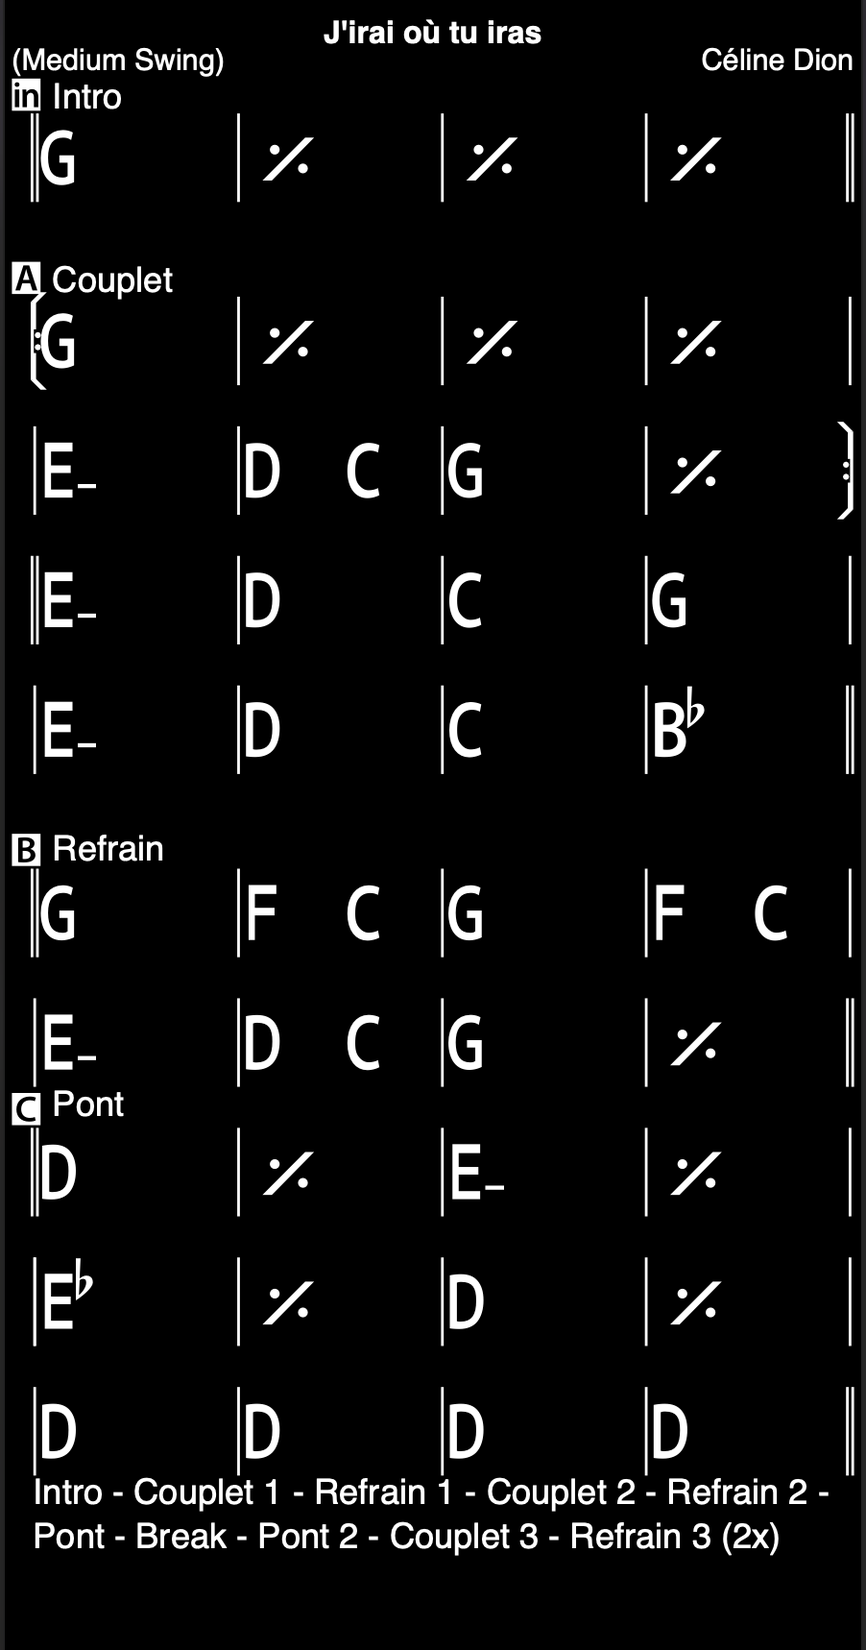
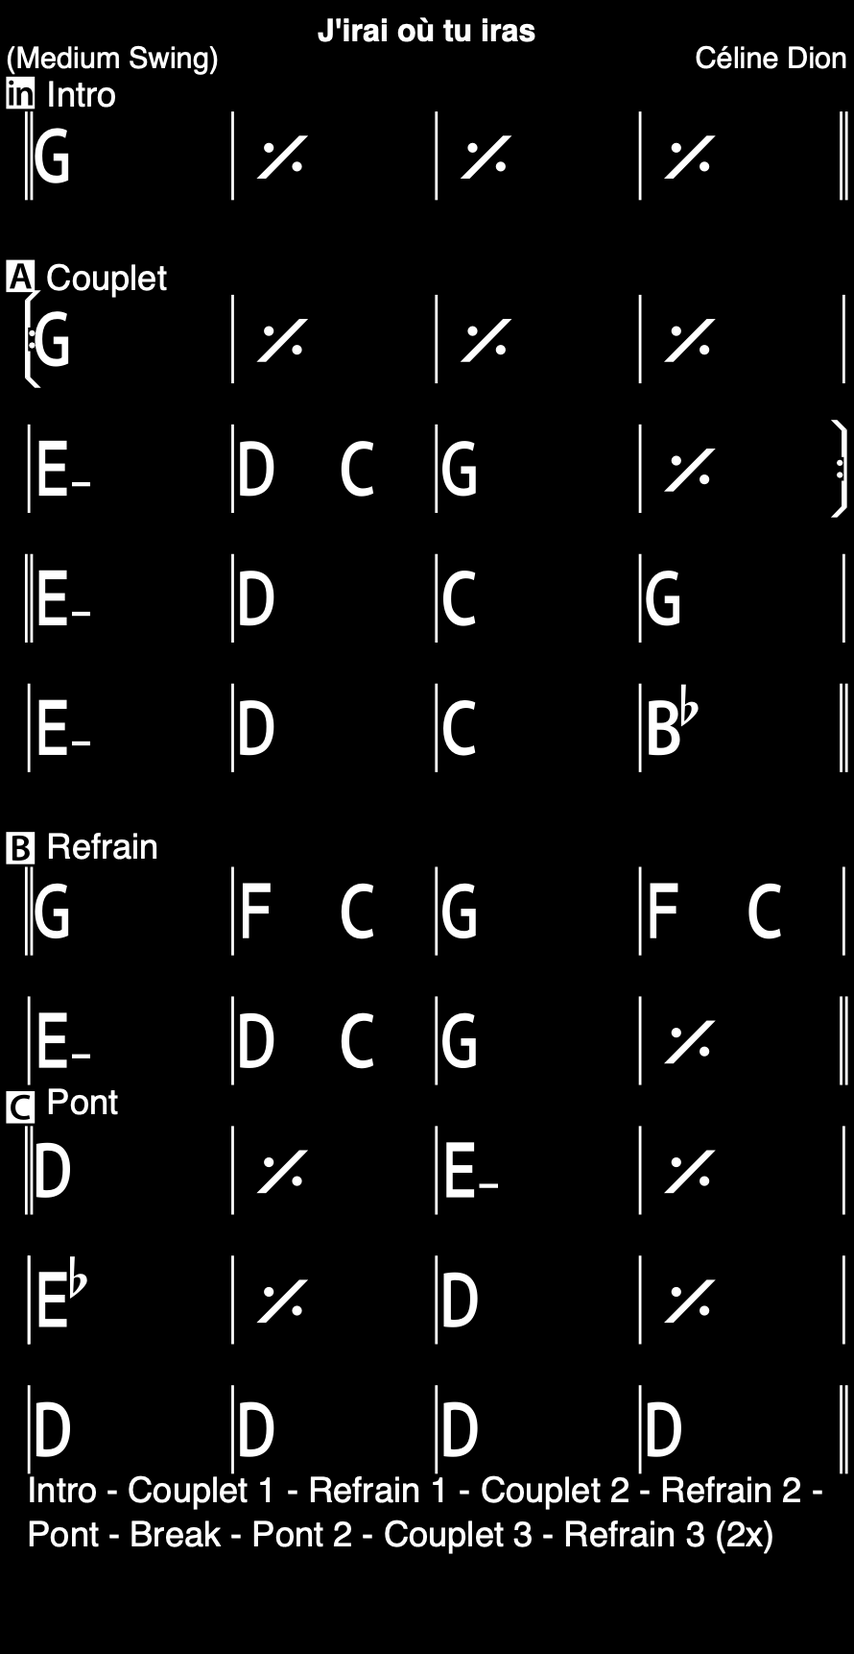
encore

diff --git a/docs/chansons.html b/docs/chansons.html
@@ -36,48 +36,49 @@
      <li>23. <a href="chansons/il_est_libre_max.html"><strong>Il est libre Max</strong></a> - <i>Hervé Cristiani</i> - <a href="https://www.youtube.com/watch?v=98uUxfo_eMw">YouTube</a> - <a href="partitions/il_est_libre_max.png">Partition</a></li>
      <li>24. <a href="chansons/il_jouait_du_piano_debout.html"><strong>Il jouait du piano debout</strong></a> - <i>Michel Berger, France Gall</i> - <a href="https://www.youtube.com/watch?v=7l7eXx_8DHY">YouTube</a> - <a href="partitions/il_jouait_du_piano_debout.png">Partition</a></li>
      <li>25. <a href="chansons/j_ai_demande_a_la_lune.html"><strong>J'ai demandé à la lune</strong></a> - <i>Indochine</i> - <a href="https://www.youtube.com/watch?v=KAOmC5qT02w">YouTube</a> - <a href="partitions/j_ai_demande_a_la_lune.png">Partition</a></li>
-     <li>26. <a href="chansons/jardin_d_hivers.html"><strong>Jardin d'Hiver</strong></a> - <i>Henri Salvador, Benjamin Biolay</i> - <a href="https://www.youtube.com/watch?v=gFkUVik35U8">YouTube</a> - <a href="partitions/jardin_d_hivers.png">Partition</a></li>
-     <li>27. <a href="chansons/je_te_promets.html"><strong>Je te promets</strong></a> - <i>Johnny Hallyday</i> - <a href="https://www.youtube.com/watch?v=-TkrMyXYbik">YouTube</a> - <a href="partitions/je_te_promets.png">Partition</a></li>
-     <li>28. <a href="chansons/jolene.html"><strong>Jolene</strong></a> - <i>Dolly Parton</i> - <a href="https://www.youtube.com/watch?v=Ixrje2rXLMA">YouTube</a> - <a href="partitions/jolene.png">Partition</a></li>
-     <li>29. <a href="chansons/killing_me_softly.html"><strong>Killing Me Softly</strong></a> - <i>Fugees</i> - <a href="https://www.youtube.com/watch?v=oKOtzIo-uYw">YouTube</a> - <a href="partitions/killing_me_softly.png">Partition</a></li>
-     <li>30. <a href="chansons/knoking_on_heavens_door.html"><strong>Knocking on Heaven's Door</strong></a> - <i>Bob Dylan</i> - <a href="https://www.youtube.com/watch?v=rm9coqlk8fY">YouTube</a> - <a href="partitions/knocking_on_heavens_door.png">Partition</a></li>
-     <li>31. <a href="chansons/l_amant_de_st_jean.html"><strong>L'amant de Saint-Jean</strong></a> - <i>Lucienne Delyle</i> - <a href="https://www.youtube.com/watch?v=_qQeJLSYz_M">YouTube</a> - <a href="partitions/mon_amant_de_st_jean.png">Partition</a></li>
-     <li>32. <a href="chansons/la_ballade_de_jim.html"><strong>La ballade de Jim</strong></a> - <i>Alain Souchon</i> - <a href="https://www.youtube.com/watch?v=Eg9YmQqTg3s">YouTube</a> - <a href="partitions/la_ballade_de_jim.png">Partition</a></li>
-     <li>33. <a href="chansons/la_bonne_etoile.html"><strong>La Bonne Etoile</strong></a> - <i>M</i> - <a href="https://www.youtube.com/watch?v=wWKk2O4E6Xc">YouTube</a> - <a href="partitions/la_bonne_etoile.png">Partition</a></li>
-     <li>34. <a href="chansons/la_colegiala.html"><strong>La Colegiala</strong></a> - <i>Walter Leon Aguilar</i> - <a href="https://www.youtube.com/watch?v=Bg3pFjbCag0">YouTube</a> - <a href="partitions/la_collegiala.png">Partition</a></li>
-     <li>35. <a href="chansons/la_dame_de_haute_savoie.html"><strong>La Dame de Haute Savoie</strong></a> - <i>Francis Cabrel</i> - <a href="https://www.youtube.com/watch?v=HdcL3XKIgQE">YouTube</a> - <a href="partitions/la_dame_de_haute_savoie.png">Partition</a></li>
-     <li>36. <a href="chansons/la_fille_du_pere_nnoel.html"><strong>La fille du père Noël</strong></a> - <i>Jacques Lanzmann et Jacques Dutronc</i> - <a href="https://www.youtube.com/watch?v=o_DlemY_PDk">YouTube</a> - <a href="partitions/la_fille_du_pere_noel.png">Partition</a></li>
-     <li>37. <a href="chansons/la_foule.html"><strong>La Foule</strong></a> - <i>Edith Piaf</i> - <a href="https://www.youtube.com/watch?v=Fgn8gZHJZzA">YouTube</a> - <a href="partitions/la_foule.png">Partition</a></li>
-     <li>38. <a href="chansons/la_javanaise.html"><strong>La Javanaise</strong></a> - <i>Serge Gainsbourg</i> - <a href="https://www.youtube.com/watch?v=51pK2k_Sa4o">YouTube</a> - <a href="partitions/la_javanaise.png">Partition</a></li>
-     <li>39. <a href="chansons/le_chanteur.html"><strong>Le chanteur (j'me présente... je m'appelle Henri...)</strong></a> - <i>Daniel Balavoine</i> - <a href="https://www.youtube.com/watch?v=HXdP15Ubu6M">YouTube</a> - <a href="partitions/le_chanteur.png">Partition</a></li>
-     <li>40. <a href="chansons/le_sud.html"><strong>Le Sud</strong></a> - <i>Nino Ferrer</i> - <a href="https://www.youtube.com/watch?v=FgxwKEuy-pM">YouTube</a> - <a href="partitions/le_sud.png">Partition</a></li>
-     <li>41. <a href="chansons/le_tourbillon_de_la_vie.html"><strong>Le Tourbillon de la Vie</strong></a> - <i>Jeanne Moreau</i> - <a href="https://www.youtube.com/watch?v=B4nHBn8zypc">YouTube</a> - <a href="partitions/le_tourbillon_de_la_vie.png">Partition</a></li>
-     <li>42. <a href="chansons/les_copains_d_abord.html"><strong>Les Copains d'abord</strong></a> - <i>George Brassens</i> - <a href="https://www.youtube.com/watch?v=L9oEcWFjF3M">YouTube</a> - <a href="partitions/les_copains_d_abord.png">Partition</a></li>
-     <li>43. <a href="chansons/let_it_be.html"><strong>Let it be</strong></a> - <i>Beatles</i> - <a href="https://www.youtube.com/watch?v=CGj85pVzRJs">YouTube</a> - <a href="partitions/let_it_be.png">Partition</a></li>
-     <li>44. <a href="chansons/mangez_moi.html"><strong>Mangez-moi mangez-moi</strong></a> - <i>Billy ze Kick</i> - <a href="https://www.youtube.com/watch?v=taOsuVhXqzY">YouTube</a> - <a href="partitions/mangez_moi.png">Partition</a></li>
-     <li>45. <a href="chansons/marcia_baila.html"><strong>Marcia Baila</strong></a> - <i>Rita Mitsouko</i> - <a href="https://www.youtube.com/watch?v=1zWlnzFXcKY">YouTube</a> - <a href="partitions/marcia_baila.png">Partition</a></li>
-     <li>46. <a href="chansons/mon_fils_ma_bataille.html"><strong>Mon fils ma bataille</strong></a> - <i>Daniel Balavoine</i> - <a href="https://www.youtube.com/watch?v=U6HI__YOhe4">YouTube</a> - <a href="partitions/mon_fils_ma_bataille.png">Partition</a></li>
-     <li>47. <a href="chansons/mourir_sur_scene.html"><strong>Mourir sur Scène</strong></a> - <i>Dalida</i> - <a href="https://www.youtube.com/watch?v=X16fYEugii4">YouTube</a> - <a href="partitions/mourir_sur_scene.png">Partition</a></li>
-     <li>48. <a href="chansons/natural_mystic.html"><strong>Natural Mystic</strong></a> - <i>Bob Marley</i> - <a href="https://www.youtube.com/watch?v=UZfaIx57UqU">YouTube</a> - <a href="partitions/natural_mystic.png">Partition</a></li>
-     <li>49. <a href="chansons/new_york_avec_toi.html"><strong>New York avec toi</strong></a> - <i>Téléphone</i> - <a href="https://www.youtube.com/watch?v=aWROzt7kudk">YouTube</a> - <a href="partitions/new_york_avec_toi.png">Partition</a></li>
-     <li>50. <a href="chansons/no_wooman_no_cry.html"><strong>No Wooman No Cry</strong></a> - <i>Bob Marley</i> - <a href="https://www.youtube.com/watch?v=mZ6VezKMoRY">YouTube</a> - <a href="partitions/no_wooman_no_cry.png">Partition</a></li>
-     <li>51. <a href="chansons/pas_assez_de_toi.html"><strong>Pas Assez de Toi</strong></a> - <i>Mano Negra</i> - <a href="https://www.youtube.com/watch?v=OSvklUkAVk8">YouTube</a> - <a href="partitions/pas_assez_de_toi.png">Partition</a></li>
-     <li>52. <a href="chansons/pas_de_boogie_woogie.html"><strong>Pas de Boogie Woogie</strong></a> - <i>Eddy Mitchell</i> - <a href="https://www.youtube.com/watch?v=EEbOMyB2YJQ">YouTube</a> - <a href="partitions/pas_de_boogie_woogie.png">Partition</a></li>
-     <li>53. <a href="chansons/pendant_que_les_champs_brulent.html"><strong>Pendant que les champs brûlent</strong></a> - <i>Niagara</i> - <a href="https://www.youtube.com/watch?v=NTVvmCAEg3A">YouTube</a> - <a href="partitions/pendant_que_les_champs_brulent.png">Partition</a></li>
-     <li>54. <a href="chansons/pour_que_tu_m_aime_encore.html"><strong>Pour que tu m'aimes encore</strong></a> - <i>Céline Dion</i> - <a href="https://www.youtube.com/watch?v=AzaTyxMduH4">YouTube</a> - <a href="partitions/pour_que_tu_m_aime_encore.png">Partition</a></li>
-     <li>55. <a href="chansons/redemption_song.html"><strong>Redemption Song</strong></a> - <i>Bob Marley</i> - <a href="https://www.youtube.com/watch?v=kOFu6b3w6c0">YouTube</a> - <a href="partitions/redemption_song.png">Partition</a></li>
-     <li>56. <a href="chansons/s_il_suffisait_qu_on_s_aime.html"><strong>S'il suffisait qu'on s'aime</strong></a> - <i>Céline Dion</i> - <a href="https://www.youtube.com/watch?v=2vmHANYQcVw">YouTube</a> - <a href="partitions/s_il_suffisait_d_aimer.png">Partition</a></li>
-     <li>57. <a href="chansons/santiano.html"><strong>Santiano</strong></a> - <i>Hughes Aufray</i> - <a href="https://www.youtube.com/watch?v=VQd1IOyhKS4">YouTube</a> - <a href="partitions/santiano.png">Partition</a></li>
-     <li>58. <a href="chansons/sarbacanne.html"><strong>Sarbacanne</strong></a> - <i>Francis Cabrel</i> - <a href="https://www.youtube.com/watch?v=qlGoCN9EqWI">YouTube</a> - <a href="partitions/sarbacane.png">Partition</a></li>
-     <li>59. <a href="chansons/sing_sing_song.html"><strong>Sing Sing Song</strong></a> - <i>Claude Nougaro</i> - <a href="https://www.youtube.com/watch?v=E7dV8NIfHmU">YouTube</a> - <a href="partitions/sing_sing.png">Partition</a></li>
-     <li>60. <a href="chansons/summertime.html"><strong>Summertime</strong></a> - <i>George Gershwin</i> - <a href="https://www.youtube.com/watch?v=u2bigf337aU">YouTube</a> </li>
-     <li>61. <a href="chansons/sympathique.html"><strong>Sympathique (Je ne veux pas travailler)</strong></a> - <i>Pink Martini</i> - <a href="https://www.youtube.com/watch?v=ANVQScgIeag">YouTube</a> - <a href="partitions/sympathique.png">Partition</a></li>
-     <li>62. <a href="chansons/these_boots_are_made_for_walking.html"><strong>These boots are made for walking</strong></a> - <i>Nancy Sinatra</i> - <a href="https://www.youtube.com/watch?v=GM1kzbAgo_E">YouTube</a> - <a href="partitions/these_boots_are_made_for_walking.png">Partition</a></li>
-     <li>63. <a href="chansons/tout_le_bonheur_du_monde.html"><strong>Tout le bonheur du monde</strong></a> - <i>Sinsemilia</i> - <a href="https://www.youtube.com/watch?v=dGBQUcQZmYQ">YouTube</a> - <a href="partitions/tout_le_bonheur_du_monde.png">Partition</a></li>
-     <li>64. <a href="chansons/walk_like_an_egyptian.html"><strong>Walk like an egyptian</strong></a> - <i>Bangles</i> - <a href="https://www.youtube.com/watch?v=JA0VfqtIK_A">YouTube</a> - <a href="partitions/walk_like_an_egyptian.png">Partition</a></li>
-     <li>65. <a href="chansons/walk_on_the_wild_side.html"><strong>Walk on the wild side</strong></a> - <i>Lou Reed</i> - <a href="https://www.youtube.com/watch?v=oG6fayQBm9w">YouTube</a> - <a href="partitions/walk_on_wild_side.png">Partition</a></li>
-     <li>66. <a href="chansons/wish_you_where_here.html"><strong>Wish you were here</strong></a> - <i>Pink Floyd</i> - <a href="https://www.youtube.com/watch?v=3j8mr-gcgoI">YouTube</a> - <a href="partitions/wish_you_where_here.png">Partition</a></li>
-     <li>67. <a href="chansons/you_know_i_am_no_good.html"><strong>You Know I am no Good</strong></a> - <i>Amy Winehouse</i> - <a href="https://www.youtube.com/watch?v=b-I2s5zRbHg">YouTube</a> - <a href="partitions/you_know_i_am_no_good.png">Partition</a></li>
+     <li>26. <a href="chansons/j_irai_ou_tu_iras.html"><strong>J'irai où tu iras</strong></a> - <i>Céline Dion et Jean-Jacques Goldman</i> - <a href="https://www.youtube.com/watch?v=0J3wIDAaLSU">YouTube</a> - <a href="partitions/j_irai_ou_tu_iras.png">Partition</a></li>
+     <li>27. <a href="chansons/jardin_d_hivers.html"><strong>Jardin d'Hiver</strong></a> - <i>Henri Salvador, Benjamin Biolay</i> - <a href="https://www.youtube.com/watch?v=gFkUVik35U8">YouTube</a> - <a href="partitions/jardin_d_hivers.png">Partition</a></li>
+     <li>28. <a href="chansons/je_te_promets.html"><strong>Je te promets</strong></a> - <i>Johnny Hallyday</i> - <a href="https://www.youtube.com/watch?v=-TkrMyXYbik">YouTube</a> - <a href="partitions/je_te_promets.png">Partition</a></li>
+     <li>29. <a href="chansons/jolene.html"><strong>Jolene</strong></a> - <i>Dolly Parton</i> - <a href="https://www.youtube.com/watch?v=Ixrje2rXLMA">YouTube</a> - <a href="partitions/jolene.png">Partition</a></li>
+     <li>30. <a href="chansons/killing_me_softly.html"><strong>Killing Me Softly</strong></a> - <i>Fugees</i> - <a href="https://www.youtube.com/watch?v=oKOtzIo-uYw">YouTube</a> - <a href="partitions/killing_me_softly.png">Partition</a></li>
+     <li>31. <a href="chansons/knoking_on_heavens_door.html"><strong>Knocking on Heaven's Door</strong></a> - <i>Bob Dylan</i> - <a href="https://www.youtube.com/watch?v=rm9coqlk8fY">YouTube</a> - <a href="partitions/knocking_on_heavens_door.png">Partition</a></li>
+     <li>32. <a href="chansons/l_amant_de_st_jean.html"><strong>L'amant de Saint-Jean</strong></a> - <i>Lucienne Delyle</i> - <a href="https://www.youtube.com/watch?v=_qQeJLSYz_M">YouTube</a> - <a href="partitions/mon_amant_de_st_jean.png">Partition</a></li>
+     <li>33. <a href="chansons/la_ballade_de_jim.html"><strong>La ballade de Jim</strong></a> - <i>Alain Souchon</i> - <a href="https://www.youtube.com/watch?v=Eg9YmQqTg3s">YouTube</a> - <a href="partitions/la_ballade_de_jim.png">Partition</a></li>
+     <li>34. <a href="chansons/la_bonne_etoile.html"><strong>La Bonne Etoile</strong></a> - <i>M</i> - <a href="https://www.youtube.com/watch?v=wWKk2O4E6Xc">YouTube</a> - <a href="partitions/la_bonne_etoile.png">Partition</a></li>
+     <li>35. <a href="chansons/la_colegiala.html"><strong>La Colegiala</strong></a> - <i>Walter Leon Aguilar</i> - <a href="https://www.youtube.com/watch?v=Bg3pFjbCag0">YouTube</a> - <a href="partitions/la_collegiala.png">Partition</a></li>
+     <li>36. <a href="chansons/la_dame_de_haute_savoie.html"><strong>La Dame de Haute Savoie</strong></a> - <i>Francis Cabrel</i> - <a href="https://www.youtube.com/watch?v=HdcL3XKIgQE">YouTube</a> - <a href="partitions/la_dame_de_haute_savoie.png">Partition</a></li>
+     <li>37. <a href="chansons/la_fille_du_pere_nnoel.html"><strong>La fille du père Noël</strong></a> - <i>Jacques Lanzmann et Jacques Dutronc</i> - <a href="https://www.youtube.com/watch?v=o_DlemY_PDk">YouTube</a> - <a href="partitions/la_fille_du_pere_noel.png">Partition</a></li>
+     <li>38. <a href="chansons/la_foule.html"><strong>La Foule</strong></a> - <i>Edith Piaf</i> - <a href="https://www.youtube.com/watch?v=Fgn8gZHJZzA">YouTube</a> - <a href="partitions/la_foule.png">Partition</a></li>
+     <li>39. <a href="chansons/la_javanaise.html"><strong>La Javanaise</strong></a> - <i>Serge Gainsbourg</i> - <a href="https://www.youtube.com/watch?v=51pK2k_Sa4o">YouTube</a> - <a href="partitions/la_javanaise.png">Partition</a></li>
+     <li>40. <a href="chansons/le_chanteur.html"><strong>Le chanteur (j'me présente... je m'appelle Henri...)</strong></a> - <i>Daniel Balavoine</i> - <a href="https://www.youtube.com/watch?v=HXdP15Ubu6M">YouTube</a> - <a href="partitions/le_chanteur.png">Partition</a></li>
+     <li>41. <a href="chansons/le_sud.html"><strong>Le Sud</strong></a> - <i>Nino Ferrer</i> - <a href="https://www.youtube.com/watch?v=FgxwKEuy-pM">YouTube</a> - <a href="partitions/le_sud.png">Partition</a></li>
+     <li>42. <a href="chansons/le_tourbillon_de_la_vie.html"><strong>Le Tourbillon de la Vie</strong></a> - <i>Jeanne Moreau</i> - <a href="https://www.youtube.com/watch?v=B4nHBn8zypc">YouTube</a> - <a href="partitions/le_tourbillon_de_la_vie.png">Partition</a></li>
+     <li>43. <a href="chansons/les_copains_d_abord.html"><strong>Les Copains d'abord</strong></a> - <i>George Brassens</i> - <a href="https://www.youtube.com/watch?v=L9oEcWFjF3M">YouTube</a> - <a href="partitions/les_copains_d_abord.png">Partition</a></li>
+     <li>44. <a href="chansons/let_it_be.html"><strong>Let it be</strong></a> - <i>Beatles</i> - <a href="https://www.youtube.com/watch?v=CGj85pVzRJs">YouTube</a> - <a href="partitions/let_it_be.png">Partition</a></li>
+     <li>45. <a href="chansons/mangez_moi.html"><strong>Mangez-moi mangez-moi</strong></a> - <i>Billy ze Kick</i> - <a href="https://www.youtube.com/watch?v=taOsuVhXqzY">YouTube</a> - <a href="partitions/mangez_moi.png">Partition</a></li>
+     <li>46. <a href="chansons/marcia_baila.html"><strong>Marcia Baila</strong></a> - <i>Rita Mitsouko</i> - <a href="https://www.youtube.com/watch?v=1zWlnzFXcKY">YouTube</a> - <a href="partitions/marcia_baila.png">Partition</a></li>
+     <li>47. <a href="chansons/mon_fils_ma_bataille.html"><strong>Mon fils ma bataille</strong></a> - <i>Daniel Balavoine</i> - <a href="https://www.youtube.com/watch?v=U6HI__YOhe4">YouTube</a> - <a href="partitions/mon_fils_ma_bataille.png">Partition</a></li>
+     <li>48. <a href="chansons/mourir_sur_scene.html"><strong>Mourir sur Scène</strong></a> - <i>Dalida</i> - <a href="https://www.youtube.com/watch?v=X16fYEugii4">YouTube</a> - <a href="partitions/mourir_sur_scene.png">Partition</a></li>
+     <li>49. <a href="chansons/natural_mystic.html"><strong>Natural Mystic</strong></a> - <i>Bob Marley</i> - <a href="https://www.youtube.com/watch?v=UZfaIx57UqU">YouTube</a> - <a href="partitions/natural_mystic.png">Partition</a></li>
+     <li>50. <a href="chansons/new_york_avec_toi.html"><strong>New York avec toi</strong></a> - <i>Téléphone</i> - <a href="https://www.youtube.com/watch?v=aWROzt7kudk">YouTube</a> - <a href="partitions/new_york_avec_toi.png">Partition</a></li>
+     <li>51. <a href="chansons/no_wooman_no_cry.html"><strong>No Wooman No Cry</strong></a> - <i>Bob Marley</i> - <a href="https://www.youtube.com/watch?v=mZ6VezKMoRY">YouTube</a> - <a href="partitions/no_wooman_no_cry.png">Partition</a></li>
+     <li>52. <a href="chansons/pas_assez_de_toi.html"><strong>Pas Assez de Toi</strong></a> - <i>Mano Negra</i> - <a href="https://www.youtube.com/watch?v=OSvklUkAVk8">YouTube</a> - <a href="partitions/pas_assez_de_toi.png">Partition</a></li>
+     <li>53. <a href="chansons/pas_de_boogie_woogie.html"><strong>Pas de Boogie Woogie</strong></a> - <i>Eddy Mitchell</i> - <a href="https://www.youtube.com/watch?v=EEbOMyB2YJQ">YouTube</a> - <a href="partitions/pas_de_boogie_woogie.png">Partition</a></li>
+     <li>54. <a href="chansons/pendant_que_les_champs_brulent.html"><strong>Pendant que les champs brûlent</strong></a> - <i>Niagara</i> - <a href="https://www.youtube.com/watch?v=NTVvmCAEg3A">YouTube</a> - <a href="partitions/pendant_que_les_champs_brulent.png">Partition</a></li>
+     <li>55. <a href="chansons/pour_que_tu_m_aime_encore.html"><strong>Pour que tu m'aimes encore</strong></a> - <i>Céline Dion</i> - <a href="https://www.youtube.com/watch?v=AzaTyxMduH4">YouTube</a> - <a href="partitions/pour_que_tu_m_aime_encore.png">Partition</a></li>
+     <li>56. <a href="chansons/redemption_song.html"><strong>Redemption Song</strong></a> - <i>Bob Marley</i> - <a href="https://www.youtube.com/watch?v=kOFu6b3w6c0">YouTube</a> - <a href="partitions/redemption_song.png">Partition</a></li>
+     <li>57. <a href="chansons/s_il_suffisait_qu_on_s_aime.html"><strong>S'il suffisait qu'on s'aime</strong></a> - <i>Céline Dion</i> - <a href="https://www.youtube.com/watch?v=2vmHANYQcVw">YouTube</a> - <a href="partitions/s_il_suffisait_d_aimer.png">Partition</a></li>
+     <li>58. <a href="chansons/santiano.html"><strong>Santiano</strong></a> - <i>Hughes Aufray</i> - <a href="https://www.youtube.com/watch?v=VQd1IOyhKS4">YouTube</a> - <a href="partitions/santiano.png">Partition</a></li>
+     <li>59. <a href="chansons/sarbacanne.html"><strong>Sarbacanne</strong></a> - <i>Francis Cabrel</i> - <a href="https://www.youtube.com/watch?v=qlGoCN9EqWI">YouTube</a> - <a href="partitions/sarbacane.png">Partition</a></li>
+     <li>60. <a href="chansons/sing_sing_song.html"><strong>Sing Sing Song</strong></a> - <i>Claude Nougaro</i> - <a href="https://www.youtube.com/watch?v=E7dV8NIfHmU">YouTube</a> - <a href="partitions/sing_sing.png">Partition</a></li>
+     <li>61. <a href="chansons/summertime.html"><strong>Summertime</strong></a> - <i>George Gershwin</i> - <a href="https://www.youtube.com/watch?v=u2bigf337aU">YouTube</a> </li>
+     <li>62. <a href="chansons/sympathique.html"><strong>Sympathique (Je ne veux pas travailler)</strong></a> - <i>Pink Martini</i> - <a href="https://www.youtube.com/watch?v=ANVQScgIeag">YouTube</a> - <a href="partitions/sympathique.png">Partition</a></li>
+     <li>63. <a href="chansons/these_boots_are_made_for_walking.html"><strong>These boots are made for walking</strong></a> - <i>Nancy Sinatra</i> - <a href="https://www.youtube.com/watch?v=GM1kzbAgo_E">YouTube</a> - <a href="partitions/these_boots_are_made_for_walking.png">Partition</a></li>
+     <li>64. <a href="chansons/tout_le_bonheur_du_monde.html"><strong>Tout le bonheur du monde</strong></a> - <i>Sinsemilia</i> - <a href="https://www.youtube.com/watch?v=dGBQUcQZmYQ">YouTube</a> - <a href="partitions/tout_le_bonheur_du_monde.png">Partition</a></li>
+     <li>65. <a href="chansons/walk_like_an_egyptian.html"><strong>Walk like an egyptian</strong></a> - <i>Bangles</i> - <a href="https://www.youtube.com/watch?v=JA0VfqtIK_A">YouTube</a> - <a href="partitions/walk_like_an_egyptian.png">Partition</a></li>
+     <li>66. <a href="chansons/walk_on_the_wild_side.html"><strong>Walk on the wild side</strong></a> - <i>Lou Reed</i> - <a href="https://www.youtube.com/watch?v=oG6fayQBm9w">YouTube</a> - <a href="partitions/walk_on_wild_side.png">Partition</a></li>
+     <li>67. <a href="chansons/wish_you_where_here.html"><strong>Wish you were here</strong></a> - <i>Pink Floyd</i> - <a href="https://www.youtube.com/watch?v=3j8mr-gcgoI">YouTube</a> - <a href="partitions/wish_you_where_here.png">Partition</a></li>
+     <li>68. <a href="chansons/you_know_i_am_no_good.html"><strong>You Know I am no Good</strong></a> - <i>Amy Winehouse</i> - <a href="https://www.youtube.com/watch?v=b-I2s5zRbHg">YouTube</a> - <a href="partitions/you_know_i_am_no_good.png">Partition</a></li>
     <!--LIST_OF_SONGS-->
   </ul>
 

diff --git a/docs/chansons/j_irai_ou_tu_iras.html b/docs/chansons/j_irai_ou_tu_iras.html
@@ -1,0 +1,113 @@
+<!DOCTYPE html>
+<html lang="fr">
+<head>
+  <meta charset="UTF-8">
+  <title>J'irai où tu iras</title>
+  <link rel="stylesheet" href="../style.css">
+</head>
+<body>
+  <h1>&nbsp;&nbsp;&nbsp;J'irai où tu iras - Céline Dion et Jean-Jacques Goldman</h1>
+  <!--YOUTUBE_LINK-->
+&nbsp;&nbsp;&nbsp;&nbsp;<a href="https://www.youtube.com/watch?v=0J3wIDAaLSU">[youtube]</a>
+  <pre>
+    <!--LYRICS-->
+    Chez moi, les forêts se balancent
+    Et les toits grattent le ciel
+    Les eaux des torrents sont violence
+    Et les neiges sont éternelles
+    
+    Chez moi, les loups sont à nos portes
+    Et tous les enfants les comprennent
+    On entend les cris de New York
+    Et les bateaux sur la Seine
+    
+    Va pour tes forêts, tes loups, tes gratte-ciel
+    Va pour les torrents, tes neiges éternelles
+    J'habite où tes yeux brillent, où ton sang coule
+    Où des bras me serrent
+    
+    J'irai où tu iras (ouh ou hou)
+    Mon pays sera toi (ouh ou hou)
+    J'irai où tu iras
+    Qu'importe la place
+    Qu'importe l'endroit
+    
+    Je veux des cocotiers, des plages
+    Et des palmiers sous le vent
+    Le feu du soleil au visage
+    Et le bleu des océans (ouh hou)
+    
+    Je veux des chameaux, des mirages
+    Et des déserts envoûtants
+    Des caravanes et des voyages
+    Comme sur les dépliants
+    
+    Va pour tes cocotiers, tes rivages
+    Va pour tes lagons, tout bleu balançant
+    J'habite où l'amour est un village
+    Là où l'on m'attend
+    
+    J'irai où tu iras (ouh ou hou)
+    Mon pays sera toi (ouh ou hou)
+    J'irai où tu iras
+    Qu'importe la place
+    Qu'importe l'endroit
+    
+    Prends tes clic et tes clac, et tes rêves et ta vie
+    Tes mots, tes tabernacles et ta langue d'ici
+    L'escampette et la poudre et la fille de l'air
+    Montre-moi tes édens, montre-moi tes enfers
+    Tes nord et puis tes sud et tes est et tes ouest
+    
+    Prends tes clic et tes clac (et tes rêves et ta vie)
+    Tes mots, tes tabernacles (et ta langue d'ici)
+    L'escampette et la poudre (et la fille de l'air)
+    Montre-moi tes édens (montre-moi tes enfers)
+    
+    Chez moi, les forêts se balancent
+    Et les toits grattent le ciel
+    Les eaux des torrents sont violence
+    Et les neiges sont éternelles
+    
+    Chez moi, les loups sont à nos portes
+    Et tous les enfants les comprennent
+    On entend les cris de New York
+    Et les bateaux sur la Seine
+    
+    Qu'importe j'irai où bon te semble
+    J'aime tes envies, j'aime ta lumière (ta lumière)
+    Tous les paysages te ressemblent
+    Quand tu les éclaires (quand tu les éclaires)
+    
+    J'irai où tu iras (ouh ou hou)
+    Mon pays sera toi (ouh ou hou)
+    J'irai où tu iras
+    Qu'importe la place
+    Qu'importe l'endroit (oh)
+    
+    J'irai où tu iras (ouh ou hou)
+    Mon pays sera toi
+    Qu'importe la place
+    Qu'importe l'endroit (ouh ou hou)
+    
+    J'irai où tu iras (ouh ou hou)
+    Mon pays sera toi
+    Qu'importe la place
+    Qu'importe l'endroit
+    
+    Mon pays sera toi (ouh ou hou)
+    J'irai où tu iras
+    Qu'importe la place
+    Qu'importe l'endroit (ouh ou hou)
+    
+    Mon pays sera toi (ouh ou hou)
+    J'irai où tu iras
+    Qu'importe la place
+    Qu'importe l'endroit
+    
+  </pre>
+  <a href="../chansons.html">Retour</a>
+  <br>
+  <br>
+</body>
+</html>
